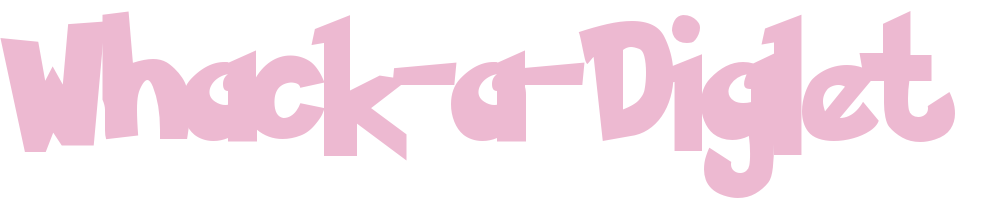
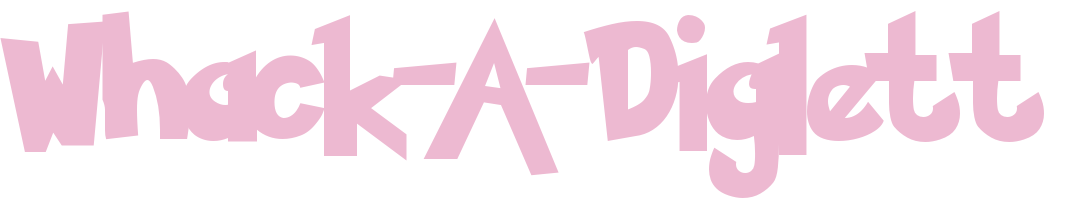
Corrected spelling of Pokemon Font image, added a restart button.

Changed region(s): [[0.0305, 0.0548, 0.9746, 0.9041], [0.8832, 0.0548, 0.9442, 0.2466], [0.9442, 0.2466, 0.9746, 0.3562]]

diff --git a/public/index.html b/public/index.html
@@ -1,7 +1,7 @@
 <!DOCTYPE html>
 <html>
 <head>
-    <title>Whack-a-Diglet Game</title>
+    <title>Whack-a-Diglett Game</title>
 
     <script src="http://code.jquery.com/jquery-1.11.0.min.js"></script>
 
@@ -12,12 +12,21 @@
     <script src="https://maxcdn.bootstrapcdn.com/bootstrap/3.3.6/js/bootstrap.min.js" integrity="sha384-0mSbJDEHialfmuBBQP6A4Qrprq5OVfW37PRR3j5ELqxss1yVqOtnepnHVP9aJ7xS" crossorigin="anonymous"></script>
 
     <link rel="stylesheet"  href="/css/whackamole.css">
+
 </head>
 <body>
+
+<audio id="myAudio">
+  <source src="/sound/pkmnbattle.mp3">
+</audio>
 
 <img src="/img/pkmnfont.png" alt="Pokemon Font">
 
 <p class= "container" id="score"> </p>
+
+<p class= "container" id="timer"> </p>
+
+<p class= "container" id="highScore"> </p>
 
 <div class="container">
     <div class="row">
@@ -56,103 +65,11 @@
 </div>
 
 <button type="button" class="btn btn-primary" id="startButton">Start Game</button>
+<button type="button" class="btn btn-danger" id="resetButton">Restart Game</button>
 
-<!-- To be placed on JS page -->
-<script>
-(function(){
-"use strict";
+<!-- JavaScript for game -->
+<script src="/js/whackamole.js"></script>
 
-var score = 0;
-
-$('#score').html('Score: ' + score);
-
-var x = Math.floor((Math.random() * 9) + 1);
-
-var y = 0;
-
-var whackPattern = setInterval(function() {
-    x = Math.floor((Math.random() * 9) + 1);
-    }, 1000);
-
-$('.digglet').fadeOut("slow");
-
-function startGame(){ 
-
-    setInterval (function() { 
-    y=0;
-    if (x == 1){
-        $('#box1.digglet').fadeIn('slow').fadeOut('slow');
-    } else if (x == 2){
-        $('#box2.digglet').fadeIn('slow').fadeOut('slow');
-    } else if (x == 3){
-        $('#box3.digglet').fadeIn('slow').fadeOut('slow');
-    } else if (x == 4){ 
-        $('#box4.digglet').fadeIn('slow').fadeOut('slow');
-    } else if (x == 5){ 
-        $('#box5.digglet').fadeIn('slow').fadeOut('slow');
-    } else if (x == 6){ 
-        $('#box6.digglet').fadeIn('slow').fadeOut('slow');
-    } else if (x == 7){ 
-        $('#box7.digglet').fadeIn('slow').fadeOut('slow');
-    } else if (x == 8){ 
-        $('#box8.digglet').fadeIn('slow').fadeOut('slow');
-    } else if (x == 9){ 
-        $('#box9.digglet').fadeIn('slow').fadeOut('slow');
-    };
-    }, 1500);
-};
-
-$(document).on('click', '#startButton', function(){
-    startGame();
-});
-
-//Add points to score
-function increaseScore(){
-    score++;
-    $('#score').html('Score: ' + score);
-}
-
-$(document).on('click', '#box1', function(){
-   increaseScore();
-});
-
-$(document).on('click', '#box2', function(){
-   increaseScore();
-});
-
-$(document).on('click', '#box3', function(){
-   increaseScore();
-});
-
-$(document).on('click', '#box4', function(){
-   increaseScore();
-});
-
-$(document).on('click', '#box5', function(){
-   increaseScore();
-});
-
-$(document).on('click', '#box6', function(){
-   increaseScore();
-});
-
-$(document).on('click', '#box7', function(){
-   increaseScore();
-});
-
-$(document).on('click', '#box8', function(){
-   increaseScore();
-});
-
-$(document).on('click', '#box9', function(){
-   increaseScore();
-});
-
-
-
-})();
-
-</script>
 
 
 </body>

diff --git a/public/css/whackamole.css b/public/css/whackamole.css
@@ -8,7 +8,7 @@
 
 .row {
     position: relative;
-    bottom: 100px;
+    bottom: 265px;
 }
 
 .digglet {
@@ -22,18 +22,33 @@
 body {
     background-image: url(/img/digletbackground.jpg);
     background-size: 100%;
+    cursor:url("/img/pokeball.png"), auto;
 }
 
 .btn {
     position: relative;
     left: 800px;
-    bottom: 750px;
+    bottom: 915px;
 }
 
 #score {
     position: relative;
     left: 670px;
-    top: 20px;
+    top: 10px;
+    font-size: 50px;
+}
+
+#highScore {
+    position: relative;
+    left: 900px;
+    bottom: 153px;
+    font-size: 50px;
+}
+
+#timer {
+    position: relative;
+    left: 670px;
+    bottom: 20px;
     font-size: 50px;
 }
 
